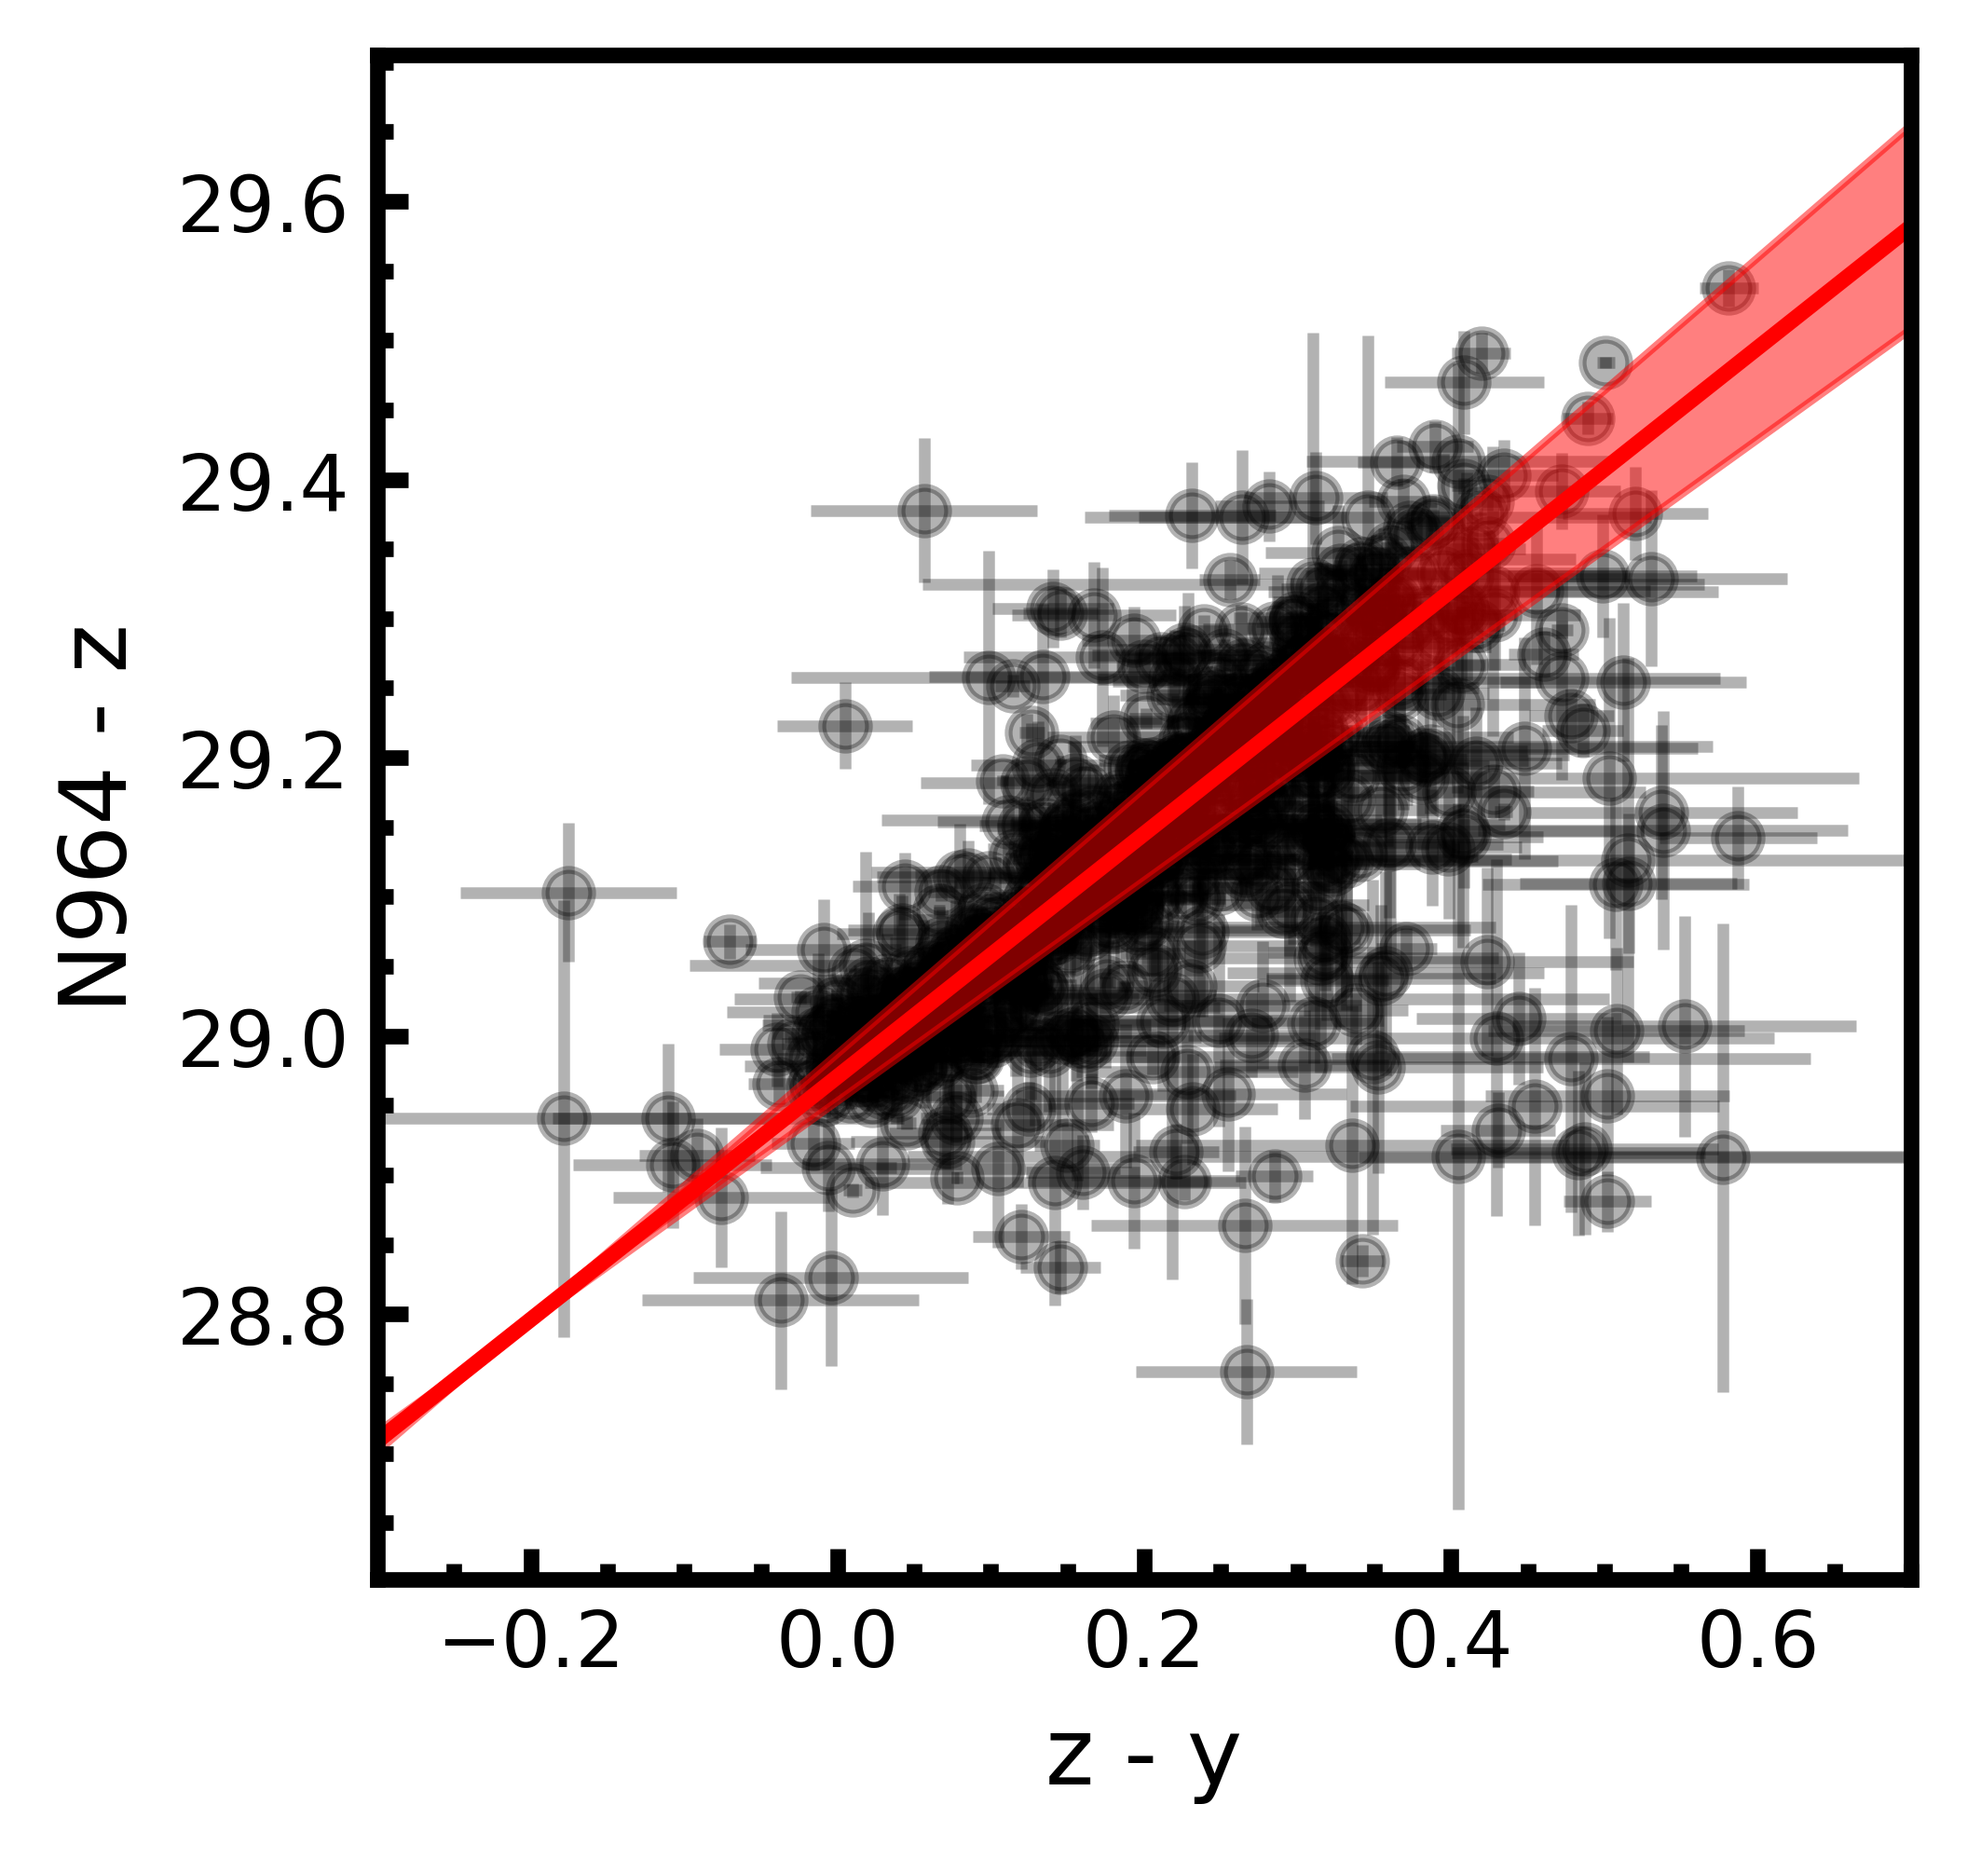
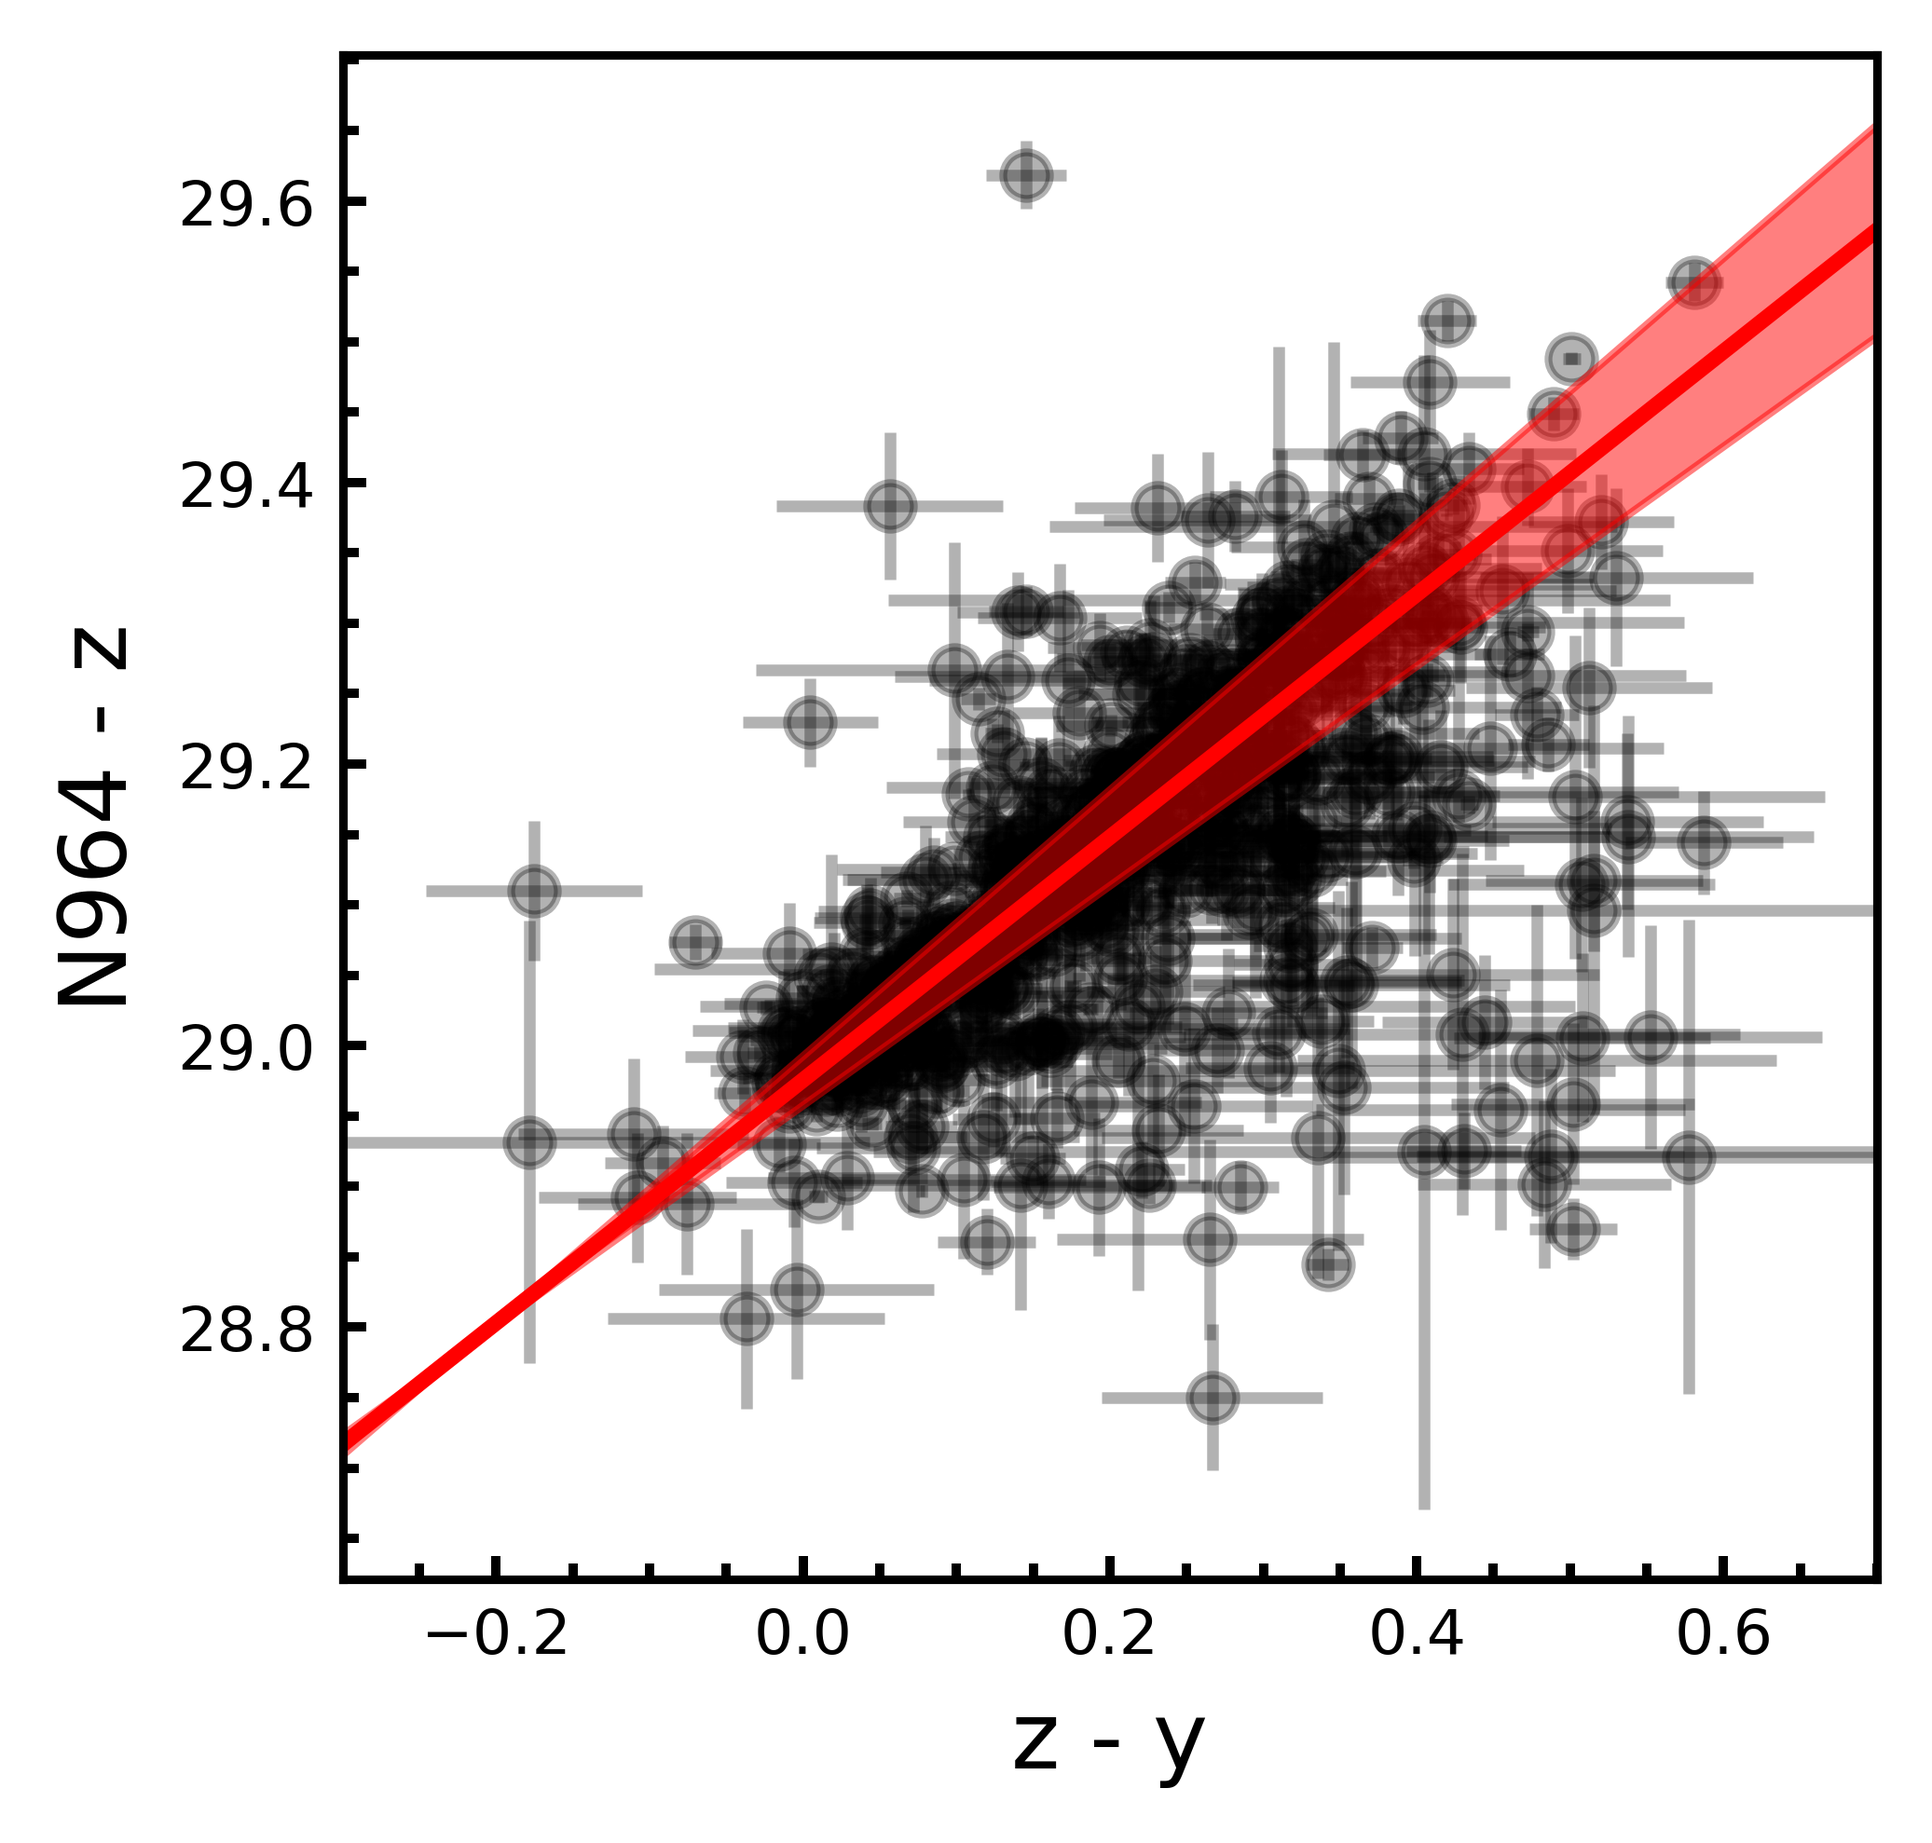
Name changes to be clearer NB zpt.

diff --git a/determine_narrowband_zpt.py b/determine_narrowband_zpt.py
@@ -1,4 +1,9 @@
-"""Narrow band analysis and fitting."""
+"""
+Determining the narrow band zpt.
+Have to use a different method than the broad bands because
+DECAM doesn't have a calibration method. Using the method suggested
+to us via private communication from ...
+"""
 
 import pylab as plt
 import numpy as np
@@ -91,7 +96,6 @@ if __name__ == '__main__':
     plt.errorbar(delta_pan[final_cut], delta_decam[final_cut], xerr=delta_pan_err[final_cut],
                   yerr = delta_decam_err[final_cut], fmt = 'ko', alpha=0.3, capsize=0, zorder=0)
 
-
     # To check that the limits are in the right place
     #plt.plot(x_fit, bottom_limit(x_fit), color='b')
     #plt.plot(x_fit, upper_limit(x_fit), color='b')
@@ -102,7 +106,7 @@ if __name__ == '__main__':
 
     N964_DIR = '../correct_stacks/N964/'
     N964_SEX_CAT = N964_DIR + 'n964.cat'
-    N964_DECAM_CAT = N964_DIR + 'c4d_210831_050404_osj_N964_vik1.fits.fz'
+    N964_DECAM_CAT = N964_DIR + 'c4d_210831_050404_osj_N964_vik2.fits.fz'
 
     n964_sex_cat = SExtractorCat(N964_SEX_CAT)
     n964_sex_cat.catalog = n964_sex_cat.catalog[n964_sex_cat.catalog['MAG_AUTO'] < 3]
